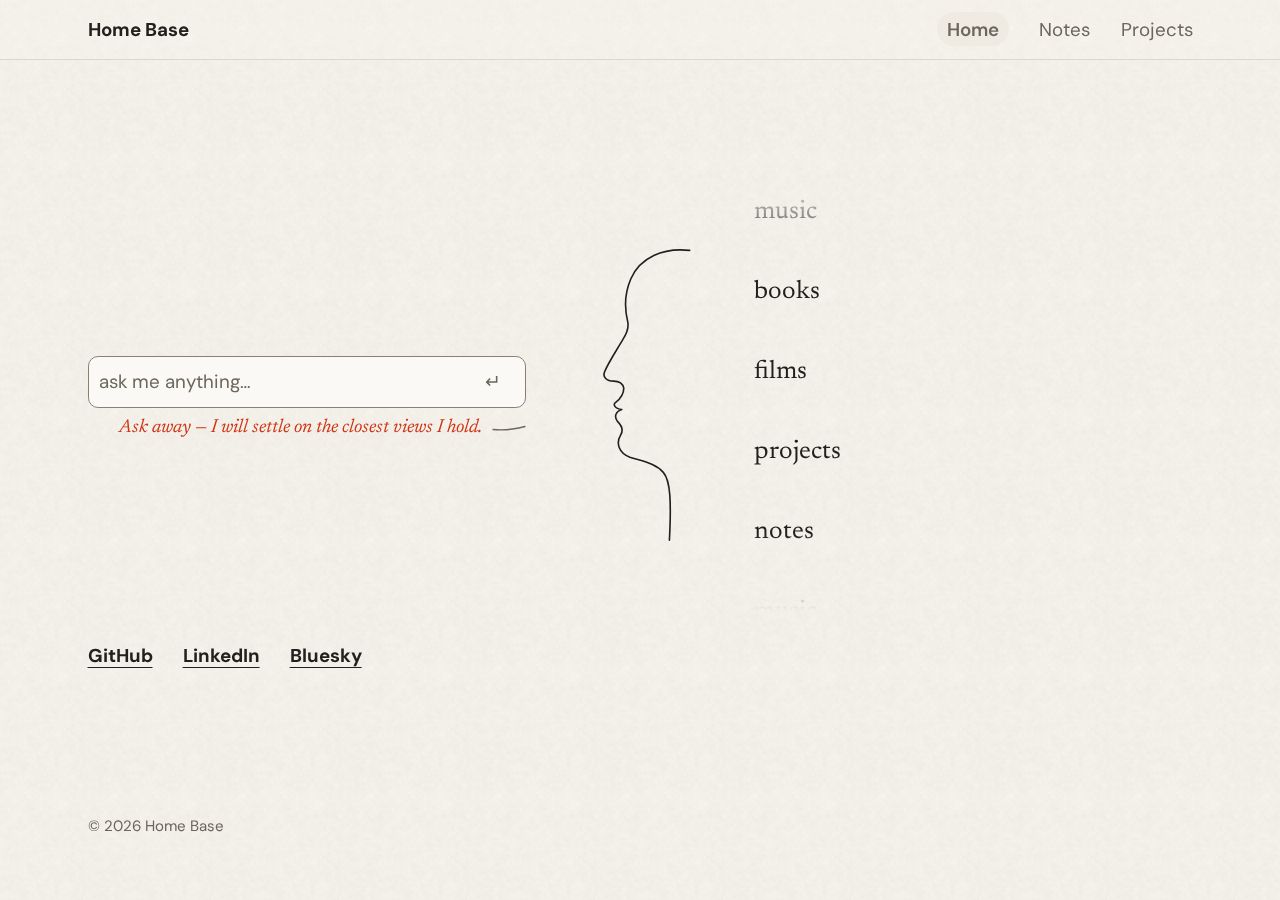
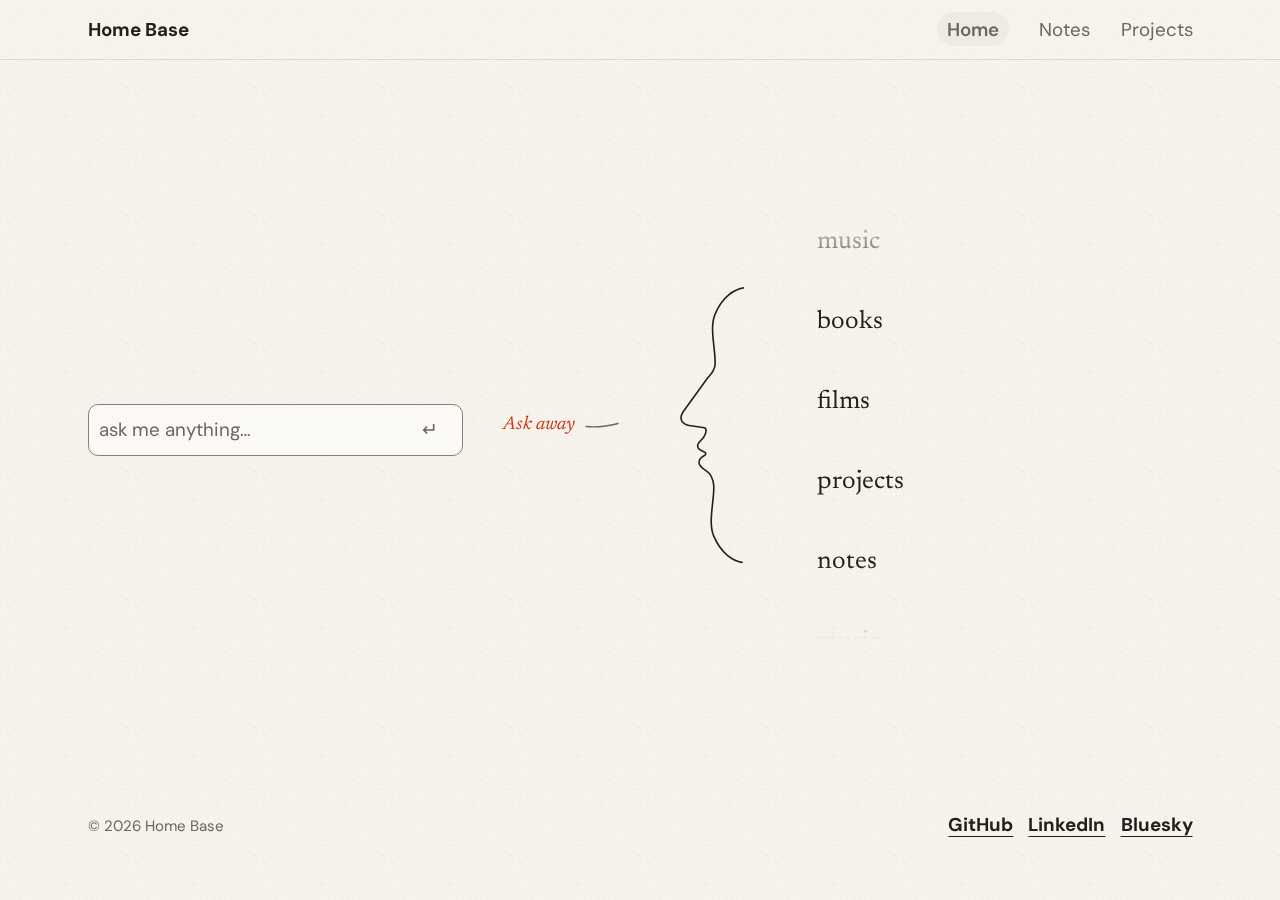
backup: sync scratch for 2026-11-23T17:30:03Z

diff --git a/home-base/hero-thoughts/issues/11-home-page-fidelity.md b/home-base/hero-thoughts/issues/11-home-page-fidelity.md
@@ -12,7 +12,9 @@
 ## Decisions (locked)
 
 - **Fonts:** Newsreader (roman + italic) for headings, stream titles and the speech line; DM Sans for body and UI; system monospace stays; no JetBrains Mono. Self-hosted (a shared CDN cache no longer exists: browsers partition HTTP caches per site, and same-origin fonts can be precached for offline). Declared in `src/styles/global.css` (`@font-face` plus `--font-sans` / `--font-display` in `@layer theme`); `theme.ts` stays colour-only; no library change. Site-wide.
-- **Hero footprint:** no boxed column; spans the layout's `wide` column, vertically centred under the header; social links sit below it.
+- **Hero footprint:** no boxed column; spans the layout's `wide` column, vertically centred under the header. The profile links are not the hero's: they ride in the footer band with the copyright, where the Cover pins them to the bottom of the viewport (amended at sign-off, below).
+- **Composition:** wide, `prompt | portrait | stream`, where the portrait zone is the cue and its swoosh **to the left of the head**, not the drawing alone. Narrow, the portrait leads: cue and head, then the prompt, then the stream (amended at sign-off, below).
+- **Amended at sign-off (owner, 2026-11-23):** three changes, all owner calls. (1) The silhouette's **height is not specified** — the artwork's proportions are the artwork's business, so the 270–300px band and the leg that pinned it are gone; what remains gated is that it draws in `--site-ink-stroke`, clears 7:1 on the canvas, and is a quarter-pixel thinner in dark. (2) Narrow, the cue moves from under the prompt to the left of the head, with the prompt under the pair and the stream under that: the composition says who is speaking before it asks. (3) The profile links leave the hero's whitespace for the footer band beside the copyright, so they are pinned to the bottom and present on every page instead of floating under a hero that fills the screen.
 - **Prompt:** one input, no `Box` wrapper, no Ask pill; a small `↵` button inside; Clear appears only when there is something to clear, as a quiet text button; italic serif "Ask away" with the swoosh stays. Boundary is `--border-strong` (3:1), 1px, warm brown (ADR 0011 rule kept; not the prototype's low-contrast hairline).
 - **Header:** same content (brand, Home, Notes, Projects), restyled; current page is a soft filled pill.
 - **Stream and silhouette:** serif titles, spacing instead of hairline rules, no meta line until the data-feeds tickets supply real data; silhouette stroke near-ink and ~25% larger.
@@ -23,14 +25,14 @@
 - [x] **Font budget.** Newsreader roman + italic and DM Sans are latin-subset woff2 totalling **≤ 160 KB**, `font-display: swap`, with a metric-adjusted fallback (`size-adjust`/`ascent-override`); static 400/500 weights are the fallback plan if the variable files exceed the budget. Cumulative layout shift on `/` is **< 0.05** (was 0.02; relaxed at sign-off, see below).
 - [x] **Offline.** The fonts are in the service worker precache; the offline leg of `bun run smoke` reloads `/` and `/notes/` offline and `document.fonts.check()` is still true.
 - [x] **Left edge.** The hero's prompt left edge equals the brand link's left edge (**±1px**). No element on `/` has a visible box edge from the old hero container (no boxed ~700px column).
-- [x] **Fit.** At 1280×900 `/` needs no vertical scroll (`document.scrollingElement.scrollHeight <= innerHeight`), with the social links below the hero.
+- [x] **Fit.** At 1280×900 `/` needs no vertical scroll (`document.scrollingElement.scrollHeight <= innerHeight`), with the hero centred between the header and the footer band and the profile links **in that band**, beside the copyright (`main` holds no `a[rel]`).
 - [x] **Prompt.** Input block-size **50–58px**; computed `border-radius` **8–12px**; border colour equals `--border-strong`; no `Box` wrapper or Ask pill remains; a `↵` button inside the input has accessible name "Ask".
 - [x] **Clear.** The Clear button is **not in the DOM** on first paint, and is present after typing a character or after a submit; it renders as a text button (no fill, no border-radius ≥ 999px pill).
 - [x] **Header.** Block-size **56–64px**, `border-block-end` 1px, DM Sans, translucent canvas. The current-page link has computed `border-radius` **≥ 999px**, a filled background, and `aria-current="page"`; there is no theme switcher and no suggestion chips.
 - [x] **Stream.** Distance between consecutive entries' tops is **80–84px**; no entry has a bottom hairline; titles are Newsreader at **24–26px**; the idle drum still moves **36–52px** in 2000ms (hero-thoughts #09 spec unchanged and still passing).
-- [x] **Silhouette.** Visible profile height **270–300px**; stroke colour is the `--site-ink-stroke` value, which is within a contrast ratio of **≥ 7:1** against the canvas (near-ink); the dark stroke is still ~0.25px thinner than light.
+- [x] **Silhouette.** No size assertion — the drawing is whatever the artwork says (owner amendment above); stroke colour is the `--site-ink-stroke` value, which is within a contrast ratio of **≥ 7:1** against the canvas (near-ink); the dark stroke is still ~0.25px thinner than light.
 - [x] **Docs.** `docs/agents/ui.md` rule 4 and the `docs/ui-guide.md` "Light strokes on dark" section drop the "silverpoint / softer ink" reasoning and describe the near-ink stroke (the dark variant keeps its thinner width); the "Silverpoint, not chalk" comment in `HeroThoughts.astro` is rewritten to match.
-- [x] **Mobile.** At 390×844: no horizontal overflow (`bun run look / -- --narrow` reports `overflow: none`), the stream stacks below the prompt, the input is full width.
+- [x] **Mobile.** At 390×844: no horizontal overflow (`bun run look / -- --narrow` reports `overflow: none`), the composition reads top-down — **cue and head, then the prompt, then the stream** — with the cue to the left of the head (one row), and the input full width.
 - [x] **Other pages.** `bun run shot /notes/` and `/projects/` before and after are in `.scratch/shots/`, with no overflow, no clipped text, and axe at 0 violations (headings are now serif site-wide).
 - [x] **Gates.** Axe WCAG 2.1 AA reports 0 violations on `/`; the contrast gate passes for every new foreground/background pairing; guardrails and `bun run smoke` stay green; no inline `style=`, no bespoke classes in `src/pages/` or `src/layouts/`.
 - [ ] **Sign-off.** `bun run shot /` at 1280×900 and at `--narrow`, saved beside the prototype's Warm render in `.scratch/shots/` (`proto-warm-1280.png` exists); the status stays `in-progress` until the owner approves them. **Shots for approval:**
@@ -49,8 +51,9 @@ matching `size-adjust` to `ch` (which costs a 24%-oversized fallback).
 **Re-measured against the final tones (2026-11-21, after paper-texture #01).**
 `bun run smoke -- --all` is green, including every home-fidelity leg: the
 80–84px stream pitch, 24–26px serif titles, the 50–58px prompt at 8–12px radius
-bounded by `--border-strong`, the 56–64px header pill, the 270–300px silhouette
-and the 0.25px-thinner dark stroke. The silhouette clears its 7:1 house rule on
+bounded by `--border-strong`, the 56–64px header pill, the silhouette in
+`--site-ink-stroke` (no size assertion, per the owner's sign-off amendment) and
+the 0.25px-thinner dark stroke. The silhouette clears its 7:1 house rule on
 the new canvas at 14.97:1 (light) / 15.05:1 (dark), and `bun run look / --
 --narrow` reports `overflow: none` at 390×844. The two other pages are re-shot
 with the new tones for the same approval: `.scratch/shots/notes-final-1280.png`

diff --git a/home-base/writing/fragments.md b/home-base/writing/fragments.md
@@ -120,3 +120,26 @@ typed one property too deep compiles to an empty string; the build is green, the
 tag is present, the network does nothing. A test now asserts three `.woff2` hrefs
 in the built HTML, because "the tag exists" and "the tag points somewhere" are
 the same sentence right up until they aren't.
+
+A blend mode has a neutral point, and it is not negotiable. `multiply` is
+invisible on white; `overlay` is invisible on mid-grey. One tile, therefore,
+can only be honest in one of the two schemes — in the other it is either a veil
+or a no-op, and no amount of tuning the alpha rescues it, because the arithmetic
+is symmetric and the page is not. Cutting the difference produced the worst of
+both: a cream canvas dimmed by five grey levels (a veil you can feel but not
+name) and a charcoal canvas moved by half a level (grain you cannot see at all).
+The measurement that ended the argument was not aesthetic. It was: *the dark
+page has never shown any grain*. Once you know the number, "one sheet of paper"
+turns out to be a claim about a lattice, not a file count.
+
+Meanwhile the phone taught a smaller lesson. The composition had been
+`prompt | head | stream`, and when it collapsed it stacked in that order — the
+machine asked before the face had said anything. Moving the cue to the left of
+the head fixed the reading order, and then the reading order fixed the DOM: the
+portrait now leads in markup, because the narrow layout is the one with a
+sequence a screen reader can hear. The wide stage, three columns abreast, has no
+reading order to disagree with, so a single container query puts the prompt
+first there and nowhere else. It is the only ordering rule in the hero, and it
+sits at the primitive's own threshold — the width where the zones were already
+going to stack — which is the trick that keeps two mechanisms from drifting
+apart: give the second one the first one's number.
